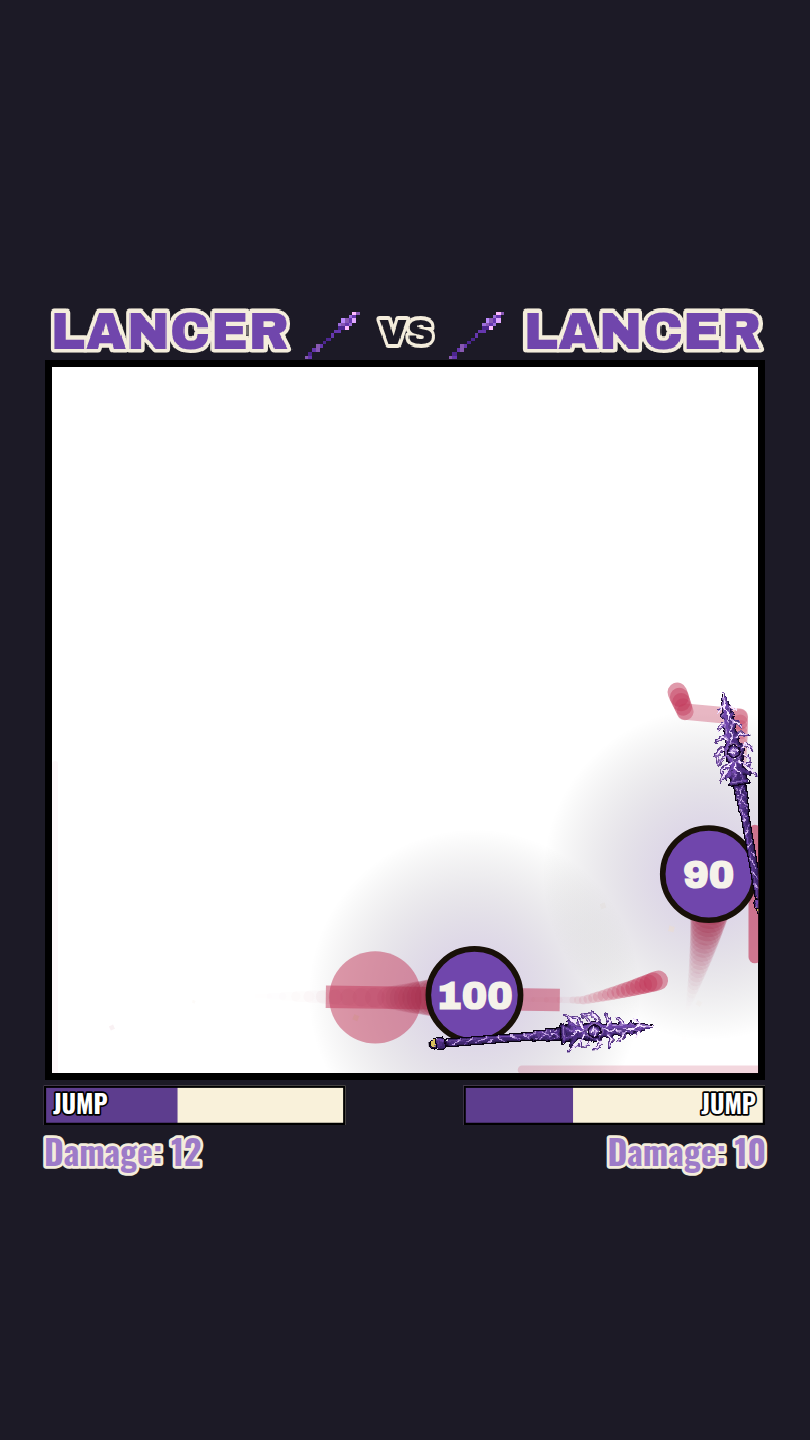
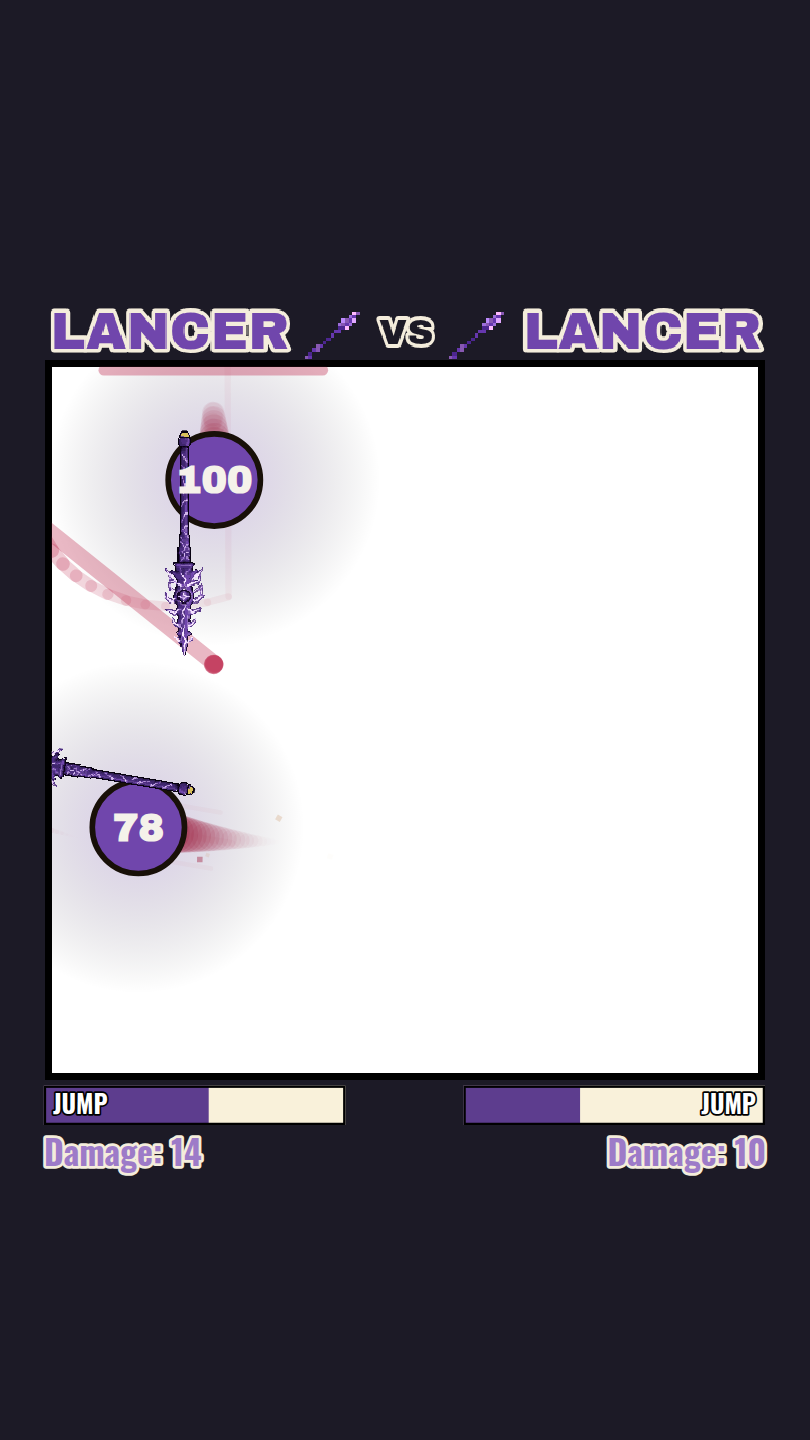
Lancier : moulinet d'élan, recul sec, charge linéaire, rotation strictement scriptée
Quatre demandes de « game feel », plus la levée de la contrainte d'équilibrage
sur les combattants désactivés.

4. Moulinet d'élan

Nouvelle phase `windup` entre `seek` et `brace` : le corps continue sa route,
seule l'arme tourne (14 rad/s pendant 0,10 s, soit ~80°), puis `brace` la
verrouille d'autorité sur le cap. C'est le contraste entre le tournoiement et
l'arrêt net qui fait lire l'intention — sans la remise d'autorité, l'arme
reprendrait le cap en douceur et le moulinet finirait en glissade.

C'est le **seul** moment du cycle où l'arme ne suit pas le cap, et c'est un
écart volontaire, pas une mesure : la vidéo n'en montre aucun (9,6° d'écart
médian au cap sur 294 images). Le garde-fou « la lance ne blesse qu'en charge »
le couvre gratuitement — il retient `meleeCd` hors `dash`, donc une lance de
164 px qui balaie un tour complet ne touche personne. Sans lui, ce moulinet
serait l'arme la plus meurtrière du jeu.

5. Recul

Il existait déjà des deux côtés (`melee.knockback` sur la cible,
`melee.selfRecoil` sur l'attaquant). Il passe de 300/95 à 460/200.

C'est l'**amplitude** qui monte, pas l'amortissement, et c'est le point : celui-ci
est global (`PHYSICS.speedRecovery`, partagé par les onze), le rendre plus sec
pour le Lancier le rendrait plus sec pour tout le monde. Une impulsion plus
grande sous le même amortissement donne exactement le coup sec cherché —
départ franc, résorption inchangée. 460 est au-dessus de tout le roster en
[…]

diff --git a/src/game/abilities/lancer.js b/src/game/abilities/lancer.js
@@ -88,7 +88,7 @@ import { ARENA } from '../../data/tuning.js';
  * aucun sens, et geler l'angle non plus — c'est le cap qui est gele pendant la
  * charge, et l'arme suit.
  *
- * @typedef {'seek'|'brace'|'dash'|'recover'} LungePhase
+ * @typedef {'seek'|'windup'|'brace'|'dash'|'recover'} LungePhase
  */
 
 export const lancerAbilities = {
@@ -168,7 +168,25 @@ export const lancerAbilities = {
      * dessous : l'angle d'arme est donc gelé lui aussi, sans qu'on ait à le
      * geler explicitement.
      */
-    f.weaponAngle = wrapAngle(f.heading);
+    /**
+     * **Écart volontaire, et le seul du personnage : le moulinet d'élan.**
+     *
+     * Pendant `windup`, et pendant lui seul, l'arme tourne sur elle-même au
+     * lieu de suivre le cap. Ce n'est **pas** un relevé : la vidéo ne montre
+     * aucune rotation propre (9,6° d'écart médian au cap sur 294 images), et
+     * c'est une demande de mise en scène assumée comme telle. Tout le reste du
+     * cycle garde `weaponAngle = heading`.
+     *
+     * Le garde-fou « la lance ne blesse qu'en charge » couvre le moulinet
+     * gratuitement : il retient `meleeCd` dans toutes les phases sauf `dash`,
+     * donc une lance de 164 px qui balaie un tour complet ne touche personne.
+     * Sans lui, un moulinet à 14 rad/s serait l'arme la plus meurtrière du jeu.
+     */
+    if (f.state.phase === 'windup') {
+      f.weaponAngle = wrapAngle(f.weaponAngle + L.windupSpin * dt);
+    } else {
+      f.weaponAngle = wrapAngle(f.heading);
+    }
 
     /**
      * **Ancrage latéral, et son recentrage au moment de la charge.**
@@ -218,9 +236,19 @@ export const lancerAbilities = {
         if (d > L.range || d < L.minRange) return;
         // l'adversaire doit etre dans l'axe de la lance — c'est-a-dire du cap
         const bear = Math.atan2(target.y - f.y, target.x - f.x);
-        if (Math.abs(wrapAngle(bear - f.heading)) <= L.cone) this.brace(f);
+        if (Math.abs(wrapAngle(bear - f.heading)) <= L.cone) this.windup(f);
         break;
       }
+
+      /**
+       * **Moulinet d'élan.** Le corps continue sa route, seule l'arme tourne.
+       * Il se termine par un verrouillage franc sur le cap — c'est `brace()`
+       * qui le pose, et le contraste entre le tournoiement et l'arrêt net est
+       * précisément ce qui fait lire l'intention.
+       */
+      case 'windup':
+        if (f.state.phaseTimer >= L.windup) this.brace(f);
+        break;
 
       /**
        * **Le temps d'arrêt avant la charge.** Le corps est cloué sur place et
@@ -258,9 +286,23 @@ export const lancerAbilities = {
    * dash : c'est ce qui fait que l'arrêt vise déjà juste, et que la charge
    * part exactement là où la lance pointait quand elle s'est immobilisée.
    */
+  /** Entrée en moulinet d'élan. Le corps n'est pas touché : seule l'arme
+   *  tourne, et le déplacement continue normalement. */
+  windup(f) {
+    this.setPhase(f, 'windup');
+  },
+
+  /**
+   * Entrée en arrêt. Le cap de la charge est figé **ici** — donc à la fin du
+   * moulinet — et l'arme est **remise d'autorité dans l'axe** : c'est le
+   * verrouillage franc qui clôt le tournoiement. Sans cette ligne, l'arme
+   * reprendrait le cap en douceur à l'image suivante et le moulinet finirait
+   * en glissade au lieu d'un claquement.
+   */
   brace(f) {
     const L = f.el.weapon.lunge;
     f.state.dashAngle = f.heading;
+    f.weaponAngle = wrapAngle(f.heading);
     this.setPhase(f, 'brace');
     // L'arrêt passe par le levier de vitesse **du moteur** (`boost` /
     // `boostFactor`) plutôt que par un champ à lui : `endDash` les remet déjà
@@ -274,6 +316,16 @@ export const lancerAbilities = {
   dash(f, game) {
     const L = f.el.weapon.lunge;
     this.setPhase(f, 'dash');
+    /**
+     * **La charge est strictement linéaire.** Le cap est réécrit à chaque pas
+     * et la vitesse est un facteur constant, donc la trajectoire est déjà une
+     * droite parcourue à vitesse fixe — mais un recul encaissé juste avant
+     * survivrait dans `impulse`, que `Fighter.step` ajoute à la vitesse, et
+     * incurverait la charge sans que rien dans ce module ne l'explique. On
+     * repart donc d'une impulsion nulle.
+     */
+    f.impulseX = 0;
+    f.impulseY = 0;
     f.boost = L.dash;
     f.boostFactor = L.speed;
     // le compteur couvre exactement la charge ; passé zéro, `flair` vide la

diff --git a/src/data/elements.js b/src/data/elements.js
@@ -1841,7 +1841,7 @@ const LANCER = {
        * pour retrouver le budget relevé. Le balayage est net — 320 → 2,04 PV/s,
        * 300 → 2,26, 280 → 2,35, **265 → 2,52**, 200 → 3,29.
        */
-      minRange: 240,
+      minRange: 220,
       /**
        * **Temps d'arrêt avant la charge**, en secondes. Mesuré : la vitesse
        * tombe à **163 px/s une image avant le déclenchement**, contre ~1 700
@@ -1853,6 +1853,21 @@ const LANCER = {
        * le battement ne se voit pas à l'œil.
        */
       brace: 0.05,
+      /**
+       * **Moulinet d'élan**, en secondes, et sa vitesse en rad/s.
+       *
+       * `déduit` — et c'est un **écart volontaire au relevé**, pas une mesure :
+       * la vidéo ne montre aucune rotation propre de l'arme (9,6° d'écart
+       * médian au cap sur 294 images). C'est de la mise en scène demandée, et
+       * elle est bornée à cette seule phase ; partout ailleurs l'arme suit le
+       * cap.
+       *
+       * 14 rad/s ≈ 2,2 tours/s : sur 0,18 s, un peu moins d'un demi-tour. Assez
+       * pour lire un armement, pas assez pour qu'on perde de vue où pointe la
+       * lance au moment du verrouillage.
+       */
+      windup: 0.1,
+      windupSpin: 14,
       /**
        * **Décalage latéral de l'ancrage de l'arme**, en px logiques, hors
        * charge. Mesuré : distance signée du centre de la bille à l'axe de la
@@ -1886,7 +1901,7 @@ const LANCER = {
       speed: 2.6,
       /** Calé : temps mort après une charge. Avec `minRange`, c'est ce qui
        *  porte le budget de dégâts relevé (0,181 coup/s, 2,54 PV/s). */
-      recover: 0.55,
+      recover: 0.45,
       /** Calé : le recul propre à la charge, ajouté à `melee.selfRecoil`. La
        *  vidéo montre un recul net après chaque touche de lance. */
       recoil: 240,
@@ -1944,8 +1959,21 @@ const LANCER = {
        * reprendre sa valeur relevée.
        */
       cooldown: 1.1,
-      knockback: 300,
-      selfRecoil: 95,
+      /**
+       * **Recul, des deux côtés.** Relevé à 300 / 95 ; monté à 460 / 200 pour
+       * donner du poids à l'impact — écart volontaire de mise en scène.
+       *
+       * C'est l'**amplitude** qu'on augmente et pas l'amortissement, parce que
+       * celui-ci est global (`PHYSICS.speedRecovery`, partagé par les onze) :
+       * le rendre plus sec ici le rendrait plus sec pour tout le monde. Une
+       * impulsion plus grande sous le même amortissement donne exactement le
+       * coup sec cherché — départ franc, résorption inchangée.
+       *
+       * 460 est au-dessus de tout le roster en mêlée (205 à 300) ; c'est
+       * assumé : le Lancier est le seul à frapper lancé à 1 400 px/s.
+       */
+      knockback: 460,
+      selfRecoil: 200,
       /**
        * Mesuré : **+2,00 par touche portée**, relevé au PV près. La stat passe
        * 10 → 12 → 14 → 16 → 18 → 20 aux instants 12,53 / 13,63 / 14,77 /
@@ -1965,7 +1993,7 @@ const LANCER = {
        * tient 13 — c'est la valeur qui satisfait la bande sans s'éloigner du
        * budget relevé.
        */
-      onHit: { stackGain: 2, stackMax: 15 },
+      onHit: { stackGain: 2, stackMax: 16 },
     },
   },
 

diff --git a/app/src/combat/attacks.ts b/app/src/combat/attacks.ts
@@ -30,6 +30,13 @@ export class LanceController {
   private phase: ThrustPhase = 'idle';
   private timer = 0;
   private spinTimer = 0;
+  /**
+   * Angle de l'arme, **tenu par le script**. Voir l'en-tête du module : la
+   * rotation n'est pas laissée à Matter.
+   */
+  private angle = 0;
+  /** Vitesse angulaire courante, en rad/s. Amortie ici, pas par le moteur. */
+  private omega = 0;
 
   constructor(
     private readonly spec: WeaponSpec,
@@ -73,7 +80,10 @@ export class LanceController {
     // Un moulinet interrompt un estoc : les deux forces se contrarient.
     this.reset();
     this.spinTimer = this.spec.spin.duration;
-    Body.setAngularVelocity(this.carrier, this.spec.spin.angularVelocity);
+    // La vitesse angulaire de la fiche est en rad **par pas de 1/60 s** :
+    // c'est ce que `Body.setAngularVelocity` attendait. Ici on intègre en
+    // secondes, donc on convertit une fois, au seul endroit qui la lit.
+    this.omega = this.spec.spin.angularVelocity * 60;
     return true;
   }
 
@@ -90,12 +100,31 @@ export class LanceController {
   update(dt: number): void {
     const { thrust, body } = this.spec;
 
+    /**
+     * **La rotation est strictement pilotée par le script.**
+     *
+     * Elle passait par `Body.setAngularVelocity` plus un amortissement, donc
+     * c'est Matter qui intégrait l'angle — et un corps libre en rotation dérive
+     * : il garde un reste de vitesse angulaire après chaque choc, l'arme
+     * flotte au lieu de revenir en place, et rien dans le script ne peut
+     * promettre où elle pointe.
+     *
+     * L'angle est maintenant tenu ici et **imposé** au corps à chaque pas par
+     * `Body.setAngle`. Le corps continue de collisionner normalement ; seule
+     * son orientation cesse d'être une sortie de la physique pour devenir une
+     * entrée.
+     */
     if (this.spinTimer > 0) {
       this.spinTimer = Math.max(0, this.spinTimer - dt);
     } else {
-      // amortissement de la rotation, hors moulinet actif
-      Body.setAngularVelocity(this.carrier, this.carrier.angularVelocity * body.angularDamping);
+      // amortissement exponentiel, exprimé par seconde et non par pas : la
+      // décroissance ne dépend donc plus de la fréquence de simulation
+      this.omega *= Math.pow(body.angularDamping, dt * 60);
+      if (Math.abs(this.omega) < 1e-3) this.omega = 0;
     }
+    this.angle += this.omega * dt;
+    Body.setAngle(this.carrier, this.angle);
+    Body.setAngularVelocity(this.carrier, 0);
 
     if (this.phase === 'idle') return;
 

diff --git a/CLAUDE.md b/CLAUDE.md
@@ -124,9 +124,17 @@ verrouillage, puisque la lance est **déjà** dans l'axe du déplacement :
 | Phase | Ce qui s'y passe |
 | --- | --- |
 | `seek` | déplacement normal ; s'engage si l'adversaire est dans la fenêtre de distance **et** dans le cône du cap |
-| `brace` | **le corps se cloue sur place**, cap gelé, et l'arme se recentre. Mesuré : la vitesse tombe à 163 px/s une image avant le déclenchement, contre ~1 700 juste avant et ~3 100 juste après |
-| `dash` | le corps file à 2,6 × sa vitesse, cap gelé — donc angle d'arme gelé aussi, sans avoir à le geler |
-| `recover` | temps mort après la charge ou la touche |
+| `windup` | **moulinet d'élan** : le corps continue, seule l'arme tourne (14 rad/s pendant 0,10 s ≈ 80°). Écart volontaire — voir plus bas |
+| `brace` | **le corps se cloue sur place**, cap gelé, l'arme est **verrouillée d'autorité** sur le cap et se recentre. Mesuré : la vitesse tombe à 163 px/s une image avant le déclenchement, contre ~1 700 juste avant et ~3 100 juste après |
+| `dash` | le corps file à 2,6 × sa vitesse en **ligne droite** : cap réécrit à chaque pas, vitesse constante, et l'impulsion est remise à zéro au départ pour qu'un recul encaissé juste avant n'incurve pas la charge |
+| `recover` | temps mort après la charge ou la touche ; l'arme se replace sur le flanc |
+
+**Le moulinet est le seul moment où l'arme ne suit pas le cap**, et c'est
+assumé : la vidéo ne montre aucune rotation propre (9,6° d'écart médian au cap
+sur 294 images). C'est de la mise en scène demandée, bornée à cette phase. Le
+garde-fou « la lance ne blesse qu'en charge » la couvre gratuitement — sans
+lui, une lance de 164 px qui balaie un tour complet serait l'arme la plus
+meurtrière du jeu.
 
 **L'arrêt se paie sur le taux de réussite, pas sur le temps mort.** Il coûtait
 0,52 PV/s en arrivant, et retoucher `recover` n'y changeait rien (2,00 → 2,07
@@ -287,9 +295,17 @@ sans que ça se voie.
      balaie 3-0 et elle tombe à 12, à 240 il n'en prend que deux et elle
      revient. Ces 20 px de fenêtre coûtent 0,13 PV/s de fidélité (2,53 contre
      2,40) — la bande passe avant, c'est un invariant.
-   - Relevé courant : Lumière 21, Hors-la-loi 16, **Lancier 16**, Ombre 15,
-     Glace 15, Foudre 15, Feu 14, Vent 14, Plante 13, Bretteur 13, Eau 13. Dix
-     combattants sur onze tiennent dans la bande.
+   - **La bande n'est plus tenue, et c'est temporaire et assumé.** Le roster
+     étant réduit au seul Lancier (voir plus haut), le réglage a été mené sur
+     la fidélité au relevé plutôt que sur l'équilibre contre des adversaires
+     désactivés. Relevé courant : Lumière 21, **Lancier 19**, Feu 16, Glace 15,
+     Hors-la-loi 15, Ombre 14, Bretteur 14, Foudre 13, Vent 13, Plante 13,
+     Eau 12.
+   - **À la réactivation, le Lancier est à 19/30 et il faudra le redescendre.**
+     Deux leviers déjà mesurés cette session : `lunge.minRange` 220 → 240 (il
+     cesse de balayer l'Eau 3-0, coût 0,13 PV/s de fidélité) et
+     `onHit.stackMax` 16 → 15. À 240 + 15 il tenait 16/30 avec dix combattants
+     sur onze dans la bande.
    - **`ROSTER` décide qui est le camp A.** Les paires sont formées en
      `[liste[i], liste[j]]`, et le camp A pèse lourd. Un nouveau venu s'ajoute
      donc **en queue** : inséré ailleurs, il déplacerait le camp A
@@ -328,6 +344,12 @@ sans que ça se voie.
 
 ## Écarts volontaires au relevé
 
+- **Le moulinet d'élan du Lancier** (`lunge.windup` / `windupSpin`) et son
+  **recul renforcé** (460 / 200 contre 300 / 95 relevés) sont deux ajouts de
+  mise en scène, pas des mesures. Pour le recul, c'est l'**amplitude** qui est
+  montée et non l'amortissement : celui-ci est global
+  (`PHYSICS.speedRecovery`), le rendre plus sec pour le Lancier le rendrait
+  plus sec pour les onze.
 - **L'arme du Lancier passe au-dessus du corps** (`weapon.overBody`) — c'est
   son relevé, la vidéo montre la lance qui recouvre franchement la bille. Elle
   passe en revanche **sous le chiffre de PV** : dans un miroir Lancier contre

diff --git a/docs/FICHES.md b/docs/FICHES.md
@@ -511,9 +511,26 @@ suivant le cap, elle est *déjà* dans l'axe de la charge.
 | Phase | Ce qui s'y passe |
 | --- | --- |
 | `seek` | déplacement normal ; s'engage si l'adversaire est dans la fenêtre de distance **et** dans le cône du cap |
-| `brace` | **le corps se cloue sur place**, cap gelé, et l'arme se recentre du flanc vers l'axe |
-| `dash` | le corps file à 2,6 × sa vitesse, cap gelé — donc angle d'arme gelé aussi, sans avoir à le geler |
-| `recover` | temps mort après la charge ou la touche |
+| `windup` | **moulinet d'élan** : le corps continue, seule l'arme tourne |
+| `brace` | **le corps se cloue sur place**, cap gelé, l'arme est verrouillée d'autorité sur le cap et se recentre du flanc vers l'axe |
+| `dash` | le corps file à 2,6 × sa vitesse en ligne droite, cap gelé — donc angle d'arme gelé aussi, sans avoir à le geler |
+| `recover` | temps mort ; l'arme se replace sur le flanc |
+
+**Trois ajouts de mise en scène, distincts du relevé.** Le **moulinet** (0,10 s
+à 14 rad/s, soit ~80°) est le seul moment où l'arme ne suit pas le cap ; la
+vidéo n'en montre aucun, et le garde-fou « la lance ne blesse qu'en charge » le
+couvre gratuitement. Le **recul** passe de 300/95 relevés à 460/200 : c'est
+l'amplitude qui monte et non l'amortissement, celui-ci étant global
+(`PHYSICS.speedRecovery`) et donc partagé par les onze. Et la **charge est
+strictement linéaire** — l'impulsion est remise à zéro au départ, sans quoi un
+recul encaissé juste avant l'incurverait sans que rien dans le module ne
+l'explique.
+
+Le moulinet coûte de la cadence, et pour la même raison que l'arrêt : pendant
+qu'il tourne, l'adversaire dérive. 0,18 s → 2,02 PV/s, 0,14 → 2,15, **0,10 →
+2,31**. À 0,10 s le moteur rend **0,180 coup/s** contre 0,181 relevés — la
+cadence tombe juste, et c'est le budget de dégâts (2,39 avec `stackMax` 16) qui
+reste 6 % sous la vidéo.
 
 **L'arrêt avant la charge est relevé.** La vitesse tombe à **163 px/s une image
 avant le déclenchement**, contre ~1 700 juste avant et ~3 100 juste après : le
